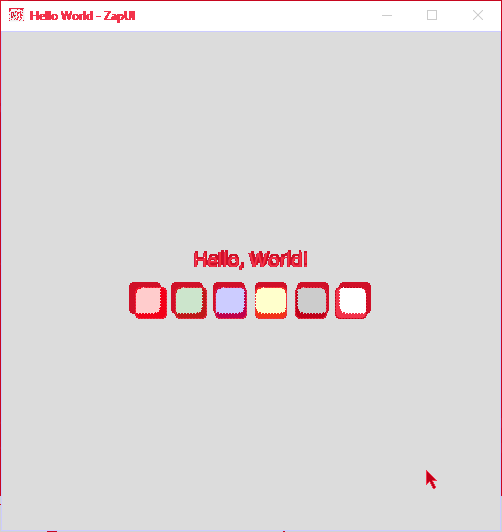
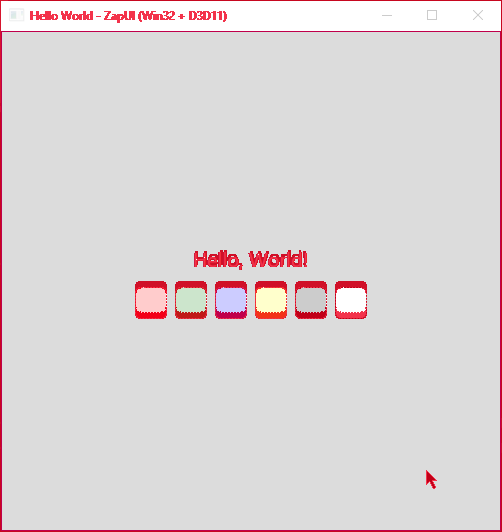
feat: make Win32+D3D11 the default for GPUI ports
- hello_world.exe is now the D3D11 version (was OpenGL)
- hello_world_gl.exe is the OpenGL version (for comparison)
- Remove hello_world_win32 target (merged into hello_world)
- Update Makefile and AGENTS.md

GPUI ports now use native Windows rendering by default,
matching how GPUI works on Windows.

diff --git a/AGENTS.md b/AGENTS.md
@@ -65,11 +65,11 @@ This creates:
 
 ```
 examples/gpui_ports/<name>/
-├── <name>.zig           # Main ZapUI implementation (OpenGL)
-├── <name>_win32.zig     # Optional: Win32+D3D11 version
+├── <name>_win32.zig     # Main implementation (Win32 + D3D11) - DEFAULT
+├── <name>.zig           # Optional: OpenGL version (cross-platform)
 ├── <name>.rs            # Original GPUI source (reference)
 ├── REPORT.md            # Comparison report
-├── LiberationSans-Regular.ttf  # Font (if needed for D3D11)
+├── LiberationSans-Regular.ttf  # Embedded font for D3D11
 └── screenshots/
     ├── zapui.png        # ZapUI screenshot
     ├── gpui.png         # GPUI screenshot
@@ -77,14 +77,16 @@ examples/gpui_ports/<name>/
     └── toggle.gif       # Animated comparison
 ```
 
-## D3D11/Win32 Version (Optional)
+## Default: Win32 + D3D11
 
-For native Windows without GLFW/OpenGL:
-1. Create `<name>_win32.zig` alongside the main file
-2. Use `zapui.platform.Win32Backend` for windowing
-3. Use `zapui.renderer.d3d11_renderer.D3D11Renderer` for rendering
-4. Embed fonts with `@embedFile("LiberationSans-Regular.ttf")`
-5. Copy font file to the example directory
+GPUI ports use native Win32 windowing and D3D11 rendering by default:
+- `hello_world.exe` = Win32 + D3D11 (built from `hello_world_win32.zig`)
+- `hello_world_gl.exe` = OpenGL version (built from `hello_world.zig`)
+
+The Win32+D3D11 version:
+- Uses `zapui.platform.Win32Backend` for windowing
+- Uses `zapui.renderer.d3d11_renderer.D3D11Renderer` for rendering
+- Embeds fonts with `@embedFile("LiberationSans-Regular.ttf")`
 
 ## Prerequisites
 
@@ -104,4 +106,5 @@ For native Windows without GLFW/OpenGL:
 | `make capture-gpui EXAMPLE=<name>` | Capture GPUI screenshot |
 | `make capture-both EXAMPLE=<name>` | Capture both screenshots |
 | `make compare EXAMPLE=<name>` | Generate diff and toggle images |
-| `make hello-world` | Run hello_world example |
+| `make hello-world` | Build hello_world (Win32 + D3D11) |
+| `make hello-world-gl` | Build hello_world (OpenGL) |
